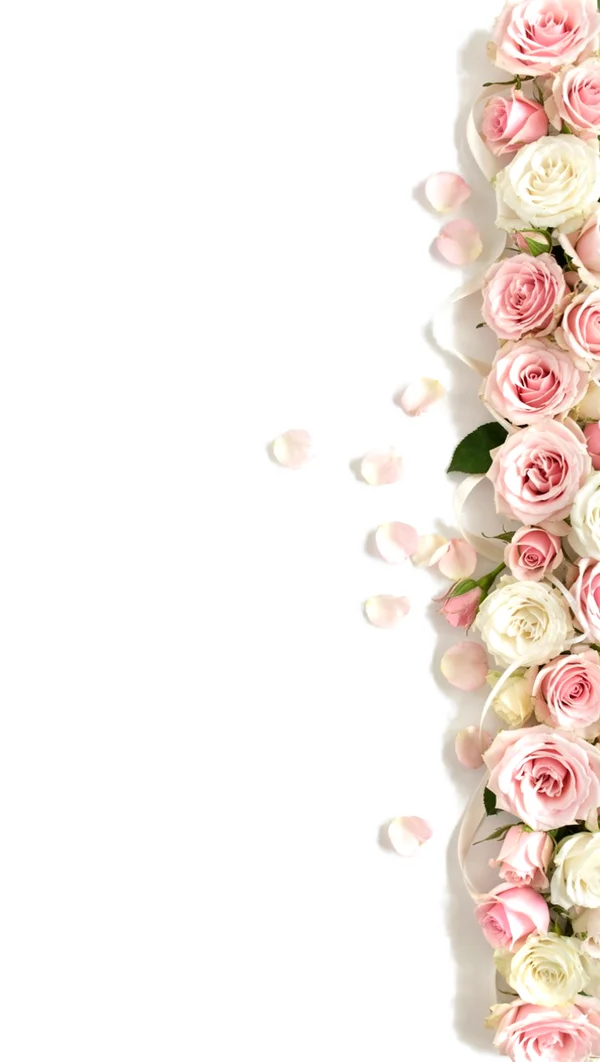
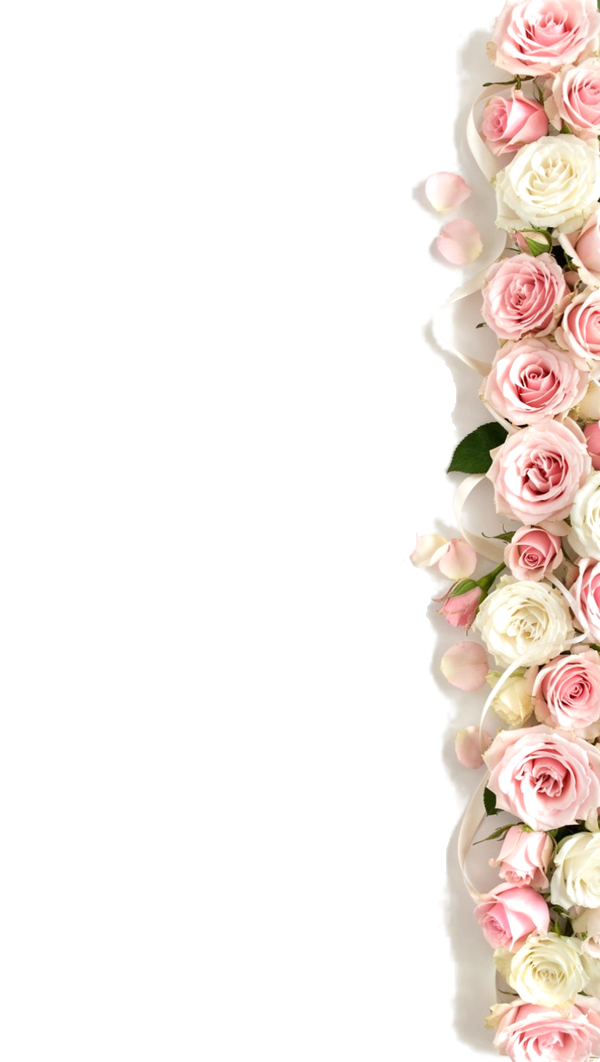
Добавил анимацию лепесткам

diff --git a/src/components/site/Hero.tsx b/src/components/site/Hero.tsx
@@ -12,21 +12,47 @@ const SPARKLES = Array.from({ length: SPARKLE_COUNT }, (_, i) => {
   };
 });
 
+const PETALS = [
+  { src: '/assets/petals/pA.webp', l: 62.83, t: 33.9, w: 13.83, dur: 7, delay: 0 },
+  { src: '/assets/petals/pB.webp', l: 41.67, t: 38.8, w: 13, dur: 8.5, delay: -2 },
+  { src: '/assets/petals/pC.webp', l: 56.17, t: 41.06, w: 13.5, dur: 6.5, delay: -4 },
+  { src: '/assets/petals/pD.webp', l: 57.83, t: 47.27, w: 12.17, dur: 7.5, delay: -1 },
+  { src: '/assets/petals/pF.webp', l: 58.33, t: 54.24, w: 13.33, dur: 8, delay: -3 },
+  { src: '/assets/petals/pG.webp', l: 61, t: 74.95, w: 14, dur: 9, delay: -5 },
+];
+
 const Hero = () => {
   return (
     <section id="top" className="hero-stage relative min-h-screen flex flex-col overflow-hidden">
-      <img
-        src="/assets/hero-roses.webp"
-        alt=""
+      <div
         aria-hidden="true"
-        className="hidden lg:block absolute right-0 top-[84px] h-[calc(100%-84px)] w-auto max-w-[32vw] object-cover object-right mix-blend-multiply pointer-events-none select-none animate-fade-in"
+        className="hidden lg:block absolute right-0 top-[84px] h-[calc(100%-84px)] w-[32vw] overflow-hidden mix-blend-multiply pointer-events-none select-none animate-fade-in"
         style={{
           maskImage: 'linear-gradient(to right, transparent, black 35%), linear-gradient(to bottom, transparent, black 10%, black 70%, transparent)',
           WebkitMaskImage: 'linear-gradient(to right, transparent, black 35%), linear-gradient(to bottom, transparent, black 10%, black 70%, transparent)',
           maskComposite: 'intersect',
           WebkitMaskComposite: 'source-in',
         }}
-      />
+      >
+        <div className="absolute right-0 top-0 h-full aspect-[600/1062]">
+          <img src="/assets/hero-roses.webp" alt="" className="absolute inset-0 w-full h-full" />
+          {PETALS.map((p) => (
+            <img
+              key={p.src}
+              src={p.src}
+              alt=""
+              className="hero-petal absolute h-auto"
+              style={{
+                left: `${p.l}%`,
+                top: `${p.t}%`,
+                width: `${p.w}%`,
+                animationDuration: `${p.dur}s`,
+                animationDelay: `${p.delay}s`,
+              }}
+            />
+          ))}
+        </div>
+      </div>
       <div className="container relative flex-1 flex flex-col items-center justify-center text-center gap-5 pt-28 pb-16">
         <div className="font-display font-medium text-[0.72rem] md:text-[1.325rem] tracking-[0.26em] uppercase text-primary animate-fade-in">
           Свадебные фото и видеосъёмки

diff --git a/src/index.css b/src/index.css
@@ -253,3 +253,20 @@
     display: none;
   }
 }
+
+@keyframes petal-sway {
+  0%, 100% { transform: translate(0, 0) rotate(0deg); }
+  25% { transform: translate(3px, -4px) rotate(6deg); }
+  50% { transform: translate(-2px, -6px) rotate(-3deg); }
+  75% { transform: translate(-4px, -2px) rotate(-7deg); }
+}
+
+.hero-petal {
+  animation: petal-sway 7s ease-in-out infinite;
+  transform-origin: 50% 40%;
+  will-change: transform;
+}
+
+@media (prefers-reduced-motion: reduce) {
+  .hero-petal { animation: none; }
+}
